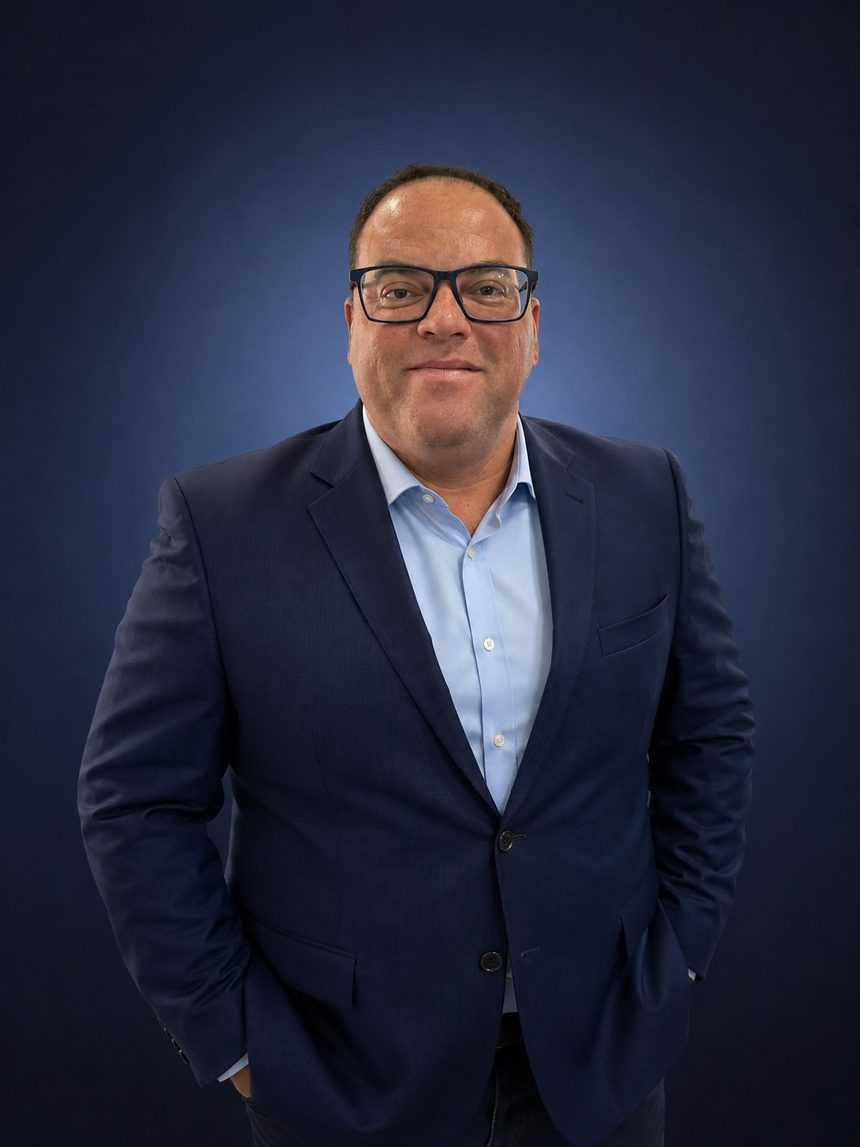
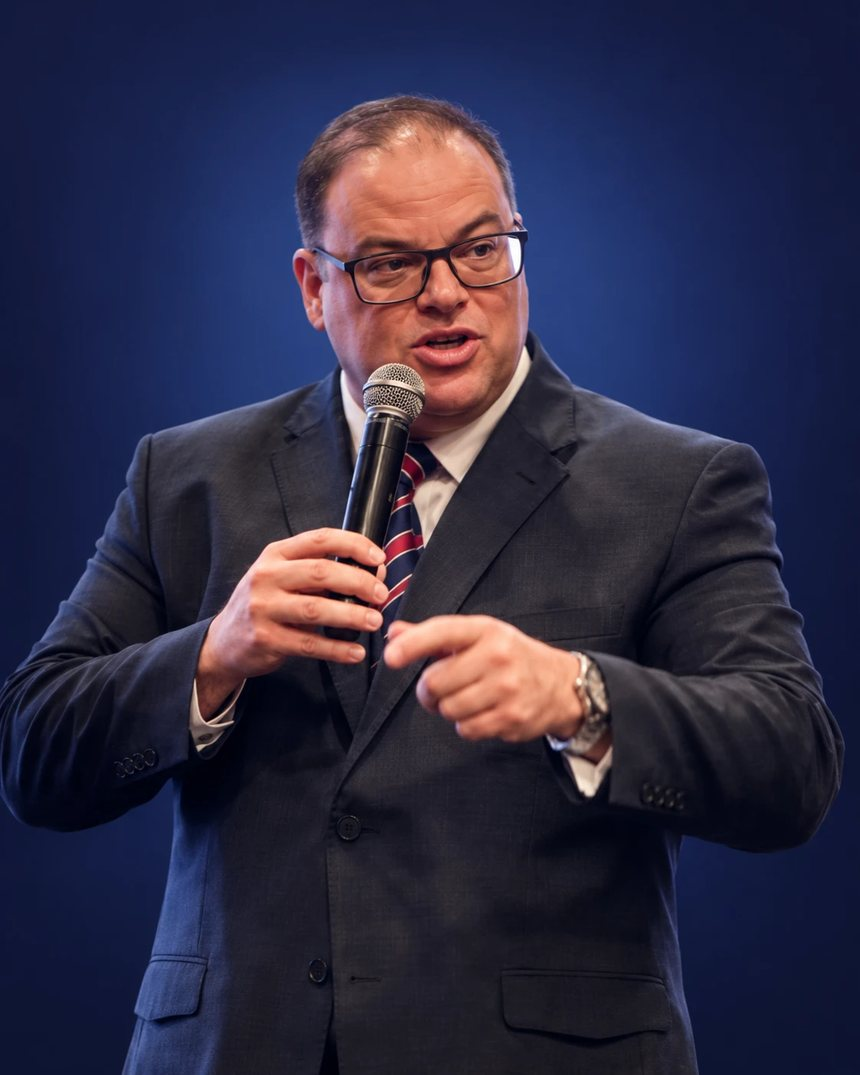
Troca foto do hero por retrato de palestra tratado
Nova imagem do Rômulo palestrando ao vivo com fundo navy de estúdio,
que integra ao gradiente do hero. Otimizada em WebP (38KB) + JPEG (80KB),
4:5 (860x1075); dimensões do <img> e alt atualizados.

diff --git a/index.html b/index.html
@@ -82,7 +82,7 @@
           <div class="hero__photo-wrap">
             <picture>
               <source srcset="assets/hero-romulo.webp" type="image/webp" />
-              <img src="assets/hero-romulo.jpg" alt="Rômulo Albuquerque, contador e especialista em gestão tributária" class="hero__photo" width="860" height="1147" fetchpriority="high" />
+              <img src="assets/hero-romulo.jpg" alt="Rômulo Albuquerque palestrando ao vivo sobre a Reforma Tributária" class="hero__photo" width="860" height="1075" fetchpriority="high" />
             </picture>
             <div class="hero__badge">
               <span class="hero__badge-num">+3.000</span>
